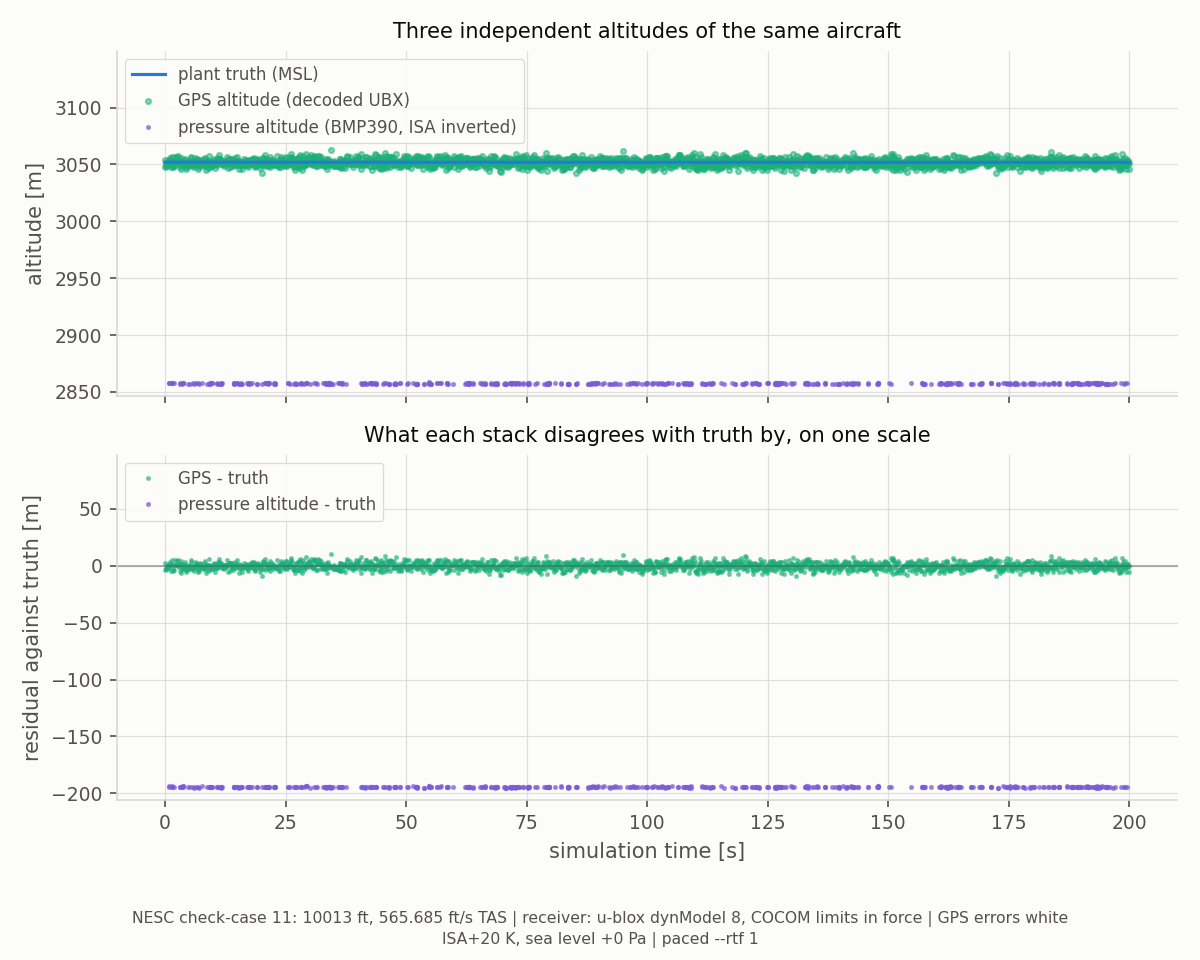
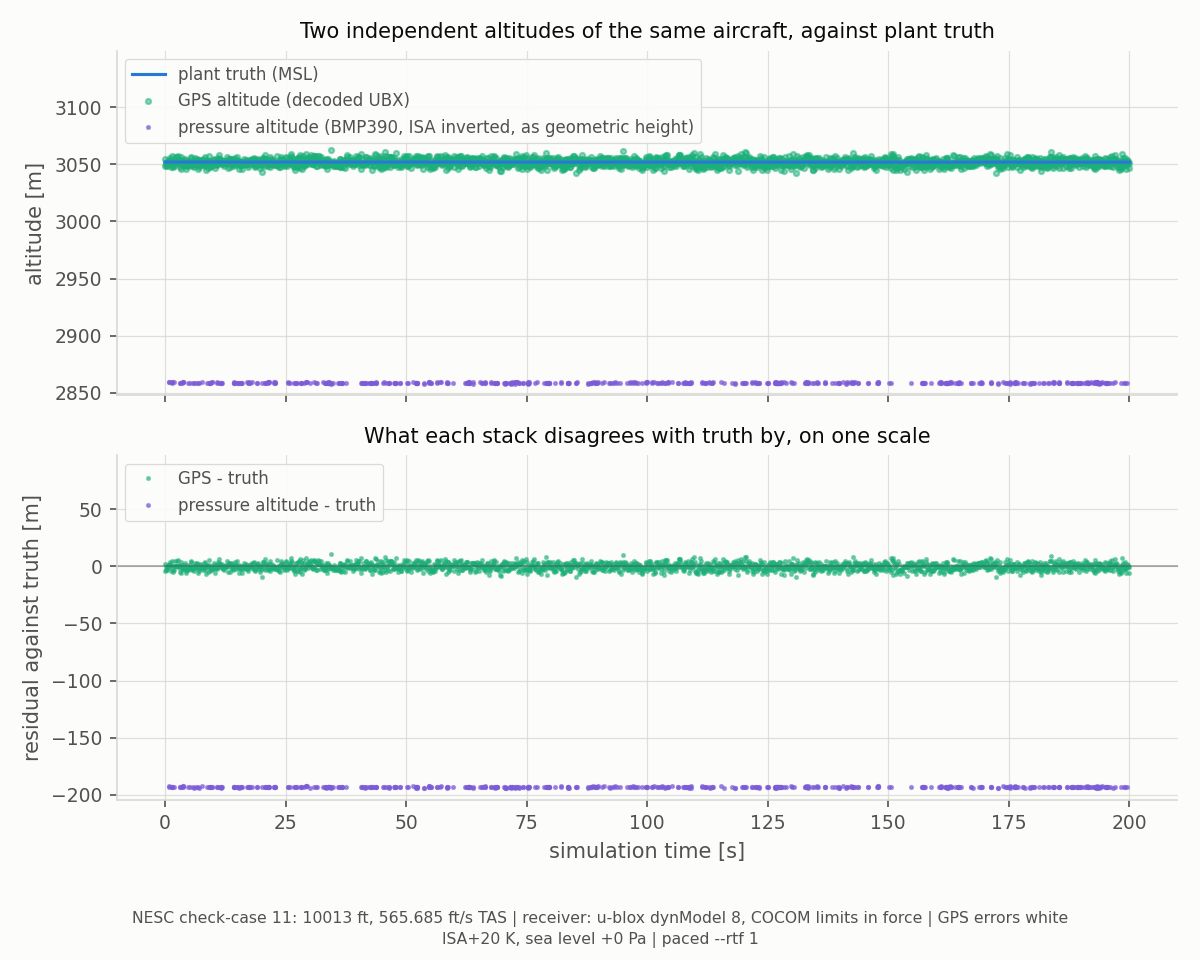
doc(examples): compare barometers with geometric truth on the hot-day and rocket figures
Maintainer decision (2026-11-13, option A): pressure altitude is ISA/US1976
geopotential and is converted with R = 6 356 766 m before geometric plant
truth is subtracted, as Aetherion's barometer measurement model does.
876e4f8 did this for the F-16 script; this applies it to the rest.

- case11_hotday_altitude.png re-plotted from the existing pinned run
  (--seed 11 --atmosphere 20,0, step 0.01, rtf 1, Aetherion 0.18.2 @
  49e75b8, Windows 11 / MSVC), not re-flown. Barometer offset -194.5 m ->
  -193.2 m mean (sd 0.32 m, 538 conversions); GPS -0.04 m over 2001 fixes.
  Caption, alt text and the two other copies (sensor_models.rst, the
  example README) updated; TODO gets a dated note, history untouched.
- rocket_gps_ecos/plot_results.py: the two-layer ISA is replaced by a local
  US1976 standard-day table (the plant's atmosphere, which the rocket climbs
  through every layer of), with local copies of the f16 script's
  geopotential_m / geometric_m. Above the 84 852 m geometric ceiling, and for
  non-positive pressures, both directions return NaN and are left undrawn.
- baro_pressure.png / baro_altitude.png regenerated from --seed 17 --rtf 1
  at the rocket's default 0.1 s step (a 0.01 s attempt stalled on this host
  and was abandoned); captions re-measured: floor 99-118 hPa, ~16 km,
  vehicle climbs another 233 km to 249 km.

Paper 1's figures, text and data/run_statistics.py are not touched.

diff --git a/examples/rocket_gps_ecos/plot_results.py b/examples/rocket_gps_ecos/plot_results.py
@@ -751,31 +751,86 @@ def plot_imu_body_rates(truth, imu, out: Path, caption: str) -> None:
     plt.close(fig)
 
 
-# The ICAO Standard Atmosphere layers of the BMP390 FMU's measurement model
-# (BaroNoiseModel::isa_pressure_pa): 6.5 K/km troposphere to 11 km, then the
-# isothermal stratosphere extended upward. Reimplemented here (rather than
-# imported from anywhere) because a plotting script wants no build products.
-_ISA_P0 = 101325.0
-_ISA_T0 = 288.15
-_ISA_LAPSE = 0.0065
-_ISA_H_TROPO = 11000.0
-_ISA_T_TROPO = 216.65
-_ISA_G = 9.80665
-_ISA_R = 287.05287
-_ISA_P_TROPO = _ISA_P0 * (_ISA_T_TROPO / _ISA_T0) ** (_ISA_G / (_ISA_LAPSE * _ISA_R))
+# The atmosphere the BMP390 sits in is the plant's: rocket_gps_cosim wires
+# rocket::out.P_Pa to baro::p_Pa, and Aetherion computes that pressure from the
+# U.S. Standard Atmosphere 1976 (Environment/Atmosphere.h). This rocket climbs
+# through every one of its layers, so the two-layer ISA the F-16 script uses
+# (troposphere plus an isothermal stratosphere extended upward) would be off by
+# 30 % at 47 km and a factor of two at the ceiling. Reimplemented here (rather
+# than imported from anywhere) because a plotting script wants no build
+# products. Standard day only: this host has no atmosphere-offset flags.
+_US1976_HB_M = (0.0, 11000.0, 20000.0, 32000.0, 47000.0, 51000.0, 71000.0, 84852.0)
+_US1976_TB_K = (288.15, 216.65, 216.65, 228.65, 270.65, 270.65, 214.65, 186.946)
+_US1976_PB_PA = (101325.0, 22632.1, 5474.89, 868.019, 110.906, 66.9389, 3.95642, 0.3734)
+_US1976_LB_K_PER_M = (-0.0065, 0.0, 0.0010, 0.0028, 0.0, -0.0028, -0.0020, 0.0)
+_US1976_G0 = 9.80665
+_US1976_R = 287.05287
+
+# The table is in geopotential altitude, plant truth (out.alt_m) is geometric,
+# and Aetherion converts between them with this radius before it evaluates the
+# table. Comparing a table-inverted pressure altitude with geometric truth
+# directly books H - h = -h^2 / (R + h) as barometer error: -35 m at 15 km.
+# Local copies of examples/f16_trim_ecos/plot_results.py's geopotential_m and
+# geometric_m -- same radius, same convention -- since neither script imports
+# from the other.
+_US1976_GEOPOTENTIAL_RADIUS_M = 6356766.0
+# Aetherion clamps the table at 84 852 m of *geometric* height and continues
+# above it with an isothermal decay of its own, which is not US1976. Neither
+# function below extrapolates past it: they return NaN, which matplotlib leaves
+# undrawn.
+_US1976_CEILING_GEOMETRIC_M = 84852.0
 
 
-def isa_pressure_pa(altitude_m: float) -> float:
-    if altitude_m <= _ISA_H_TROPO:
-        return _ISA_P0 * (1.0 - _ISA_LAPSE * altitude_m / _ISA_T0) ** (_ISA_G / (_ISA_LAPSE * _ISA_R))
-    return _ISA_P_TROPO * math.exp(-_ISA_G * (altitude_m - _ISA_H_TROPO) / (_ISA_R * _ISA_T_TROPO))
+def geopotential_m(height_m: float) -> float:
+    """Geometric height -> geopotential altitude, the table's argument."""
+    return _US1976_GEOPOTENTIAL_RADIUS_M * height_m / (_US1976_GEOPOTENTIAL_RADIUS_M + height_m)
 
 
-def isa_altitude_m(pressure_pa: float) -> float:
-    """Inverse of isa_pressure_pa -- the pressure altimeter a flight computer runs."""
-    if pressure_pa >= _ISA_P_TROPO:
-        return (_ISA_T0 / _ISA_LAPSE) * (1.0 - (pressure_pa / _ISA_P0) ** (_ISA_LAPSE * _ISA_R / _ISA_G))
-    return _ISA_H_TROPO - (_ISA_R * _ISA_T_TROPO / _ISA_G) * math.log(pressure_pa / _ISA_P_TROPO)
+def geometric_m(geopotential_alt_m: float) -> float:
+    """Geopotential altitude -> geometric height, plant truth's convention."""
+    return _US1976_GEOPOTENTIAL_RADIUS_M * geopotential_alt_m / (_US1976_GEOPOTENTIAL_RADIUS_M - geopotential_alt_m)
+
+
+def _us1976_layer_pressure_pa(layer: int, geopotential_alt_m: float) -> float:
+    hb, tb, pb, lb = (_US1976_HB_M[layer], _US1976_TB_K[layer], _US1976_PB_PA[layer], _US1976_LB_K_PER_M[layer])
+    if lb == 0.0:
+        return pb * math.exp(-_US1976_G0 * (geopotential_alt_m - hb) / (_US1976_R * tb))
+    return pb * ((tb + lb * (geopotential_alt_m - hb)) / tb) ** (-_US1976_G0 / (lb * _US1976_R))
+
+
+_US1976_CEILING_PA = _us1976_layer_pressure_pa(6, geopotential_m(_US1976_CEILING_GEOMETRIC_M))
+
+
+def us1976_pressure_pa(height_m: float) -> float:
+    """Standard-day static pressure at a geometric height -- what the plant fed the part.
+
+    Below sea level the plant clamps to sea level; above the ceiling this
+    returns NaN rather than copying the plant's non-standard extension.
+    """
+    if height_m > _US1976_CEILING_GEOMETRIC_M:
+        return math.nan
+    alt = geopotential_m(max(height_m, 0.0))
+    layer = max(i for i, hb in enumerate(_US1976_HB_M[:7]) if alt >= hb)
+    return _us1976_layer_pressure_pa(layer, alt)
+
+
+def pressure_altitude_geometric_m(pressure_pa: float) -> float:
+    """The pressure altimeter a flight computer runs, as a geometric height comparable with truth.
+
+    The table inverted layer by layer, then converted from geopotential.
+    Pressures above sea-level pressure extrapolate the tropospheric layer
+    downwards (a negative altitude); pressures below the ceiling's, and
+    non-positive ones, return NaN.
+    """
+    if not pressure_pa >= _US1976_CEILING_PA:
+        return math.nan
+    layer = max(i for i, pb in enumerate(_US1976_PB_PA[:7]) if pressure_pa <= pb or i == 0)
+    hb, tb, pb, lb = (_US1976_HB_M[layer], _US1976_TB_K[layer], _US1976_PB_PA[layer], _US1976_LB_K_PER_M[layer])
+    if lb == 0.0:
+        alt = hb - _US1976_R * tb / _US1976_G0 * math.log(pressure_pa / pb)
+    else:
+        alt = hb + (tb * (pressure_pa / pb) ** (-lb * _US1976_R / _US1976_G0) - tb) / lb
+    return geometric_m(alt)
 
 
 def plot_baro_pressure(truth, baro, out: Path, caption: str) -> None:
@@ -783,10 +838,11 @@ def plot_baro_pressure(truth, baro, out: Path, caption: str) -> None:
     ax.plot(baro["sim_time_s"], baro["pressure_pa"],
             linestyle="none", marker=".", markersize=3, alpha=0.5, color=GPS,
             label="BMP390 compensated pressure (decoded over I2C)")
-    ax.plot(truth["time"], [isa_pressure_pa(h) for h in truth["alt_m"]],
-            color=TRUTH, linewidth=1.4, label="ISA pressure at true altitude")
+    ax.plot(truth["time"], [us1976_pressure_pa(h) for h in truth["alt_m"]],
+            color=TRUTH, linewidth=1.4,
+            label="US1976 at true altitude (the plant's atmosphere, to 84.9 km)")
     ax.set_yscale("log")
-    ax.annotate("range floor: the reference part's ADC\nbottoms out near 105 hPa (~16 km)",
+    ax.annotate("range floor: the reference part's ADC\nbottoms out near 100-120 hPa (~16 km)",
                 xy=(0.98, 0.10), xycoords="axes fraction", ha="right", fontsize=8, color=INK_2)
     ax.set_xlabel("simulation time [s]")
     ax.set_ylabel("static pressure [Pa]")
@@ -798,14 +854,14 @@ def plot_baro_pressure(truth, baro, out: Path, caption: str) -> None:
 
 
 def plot_baro_altitude(truth, baro, out: Path, caption: str) -> None:
-    # What the flight software would do with these samples: invert the ISA.
-    # Above the part's range floor the derived altitude flatlines while the
-    # vehicle keeps climbing -- the honest failure mode of a pressure
-    # altimeter on a rocket, and the reason GPS exists.
+    # What the flight software would do with these samples: invert the
+    # standard atmosphere. Above the part's range floor the derived altitude
+    # flatlines while the vehicle keeps climbing -- the honest failure mode of
+    # a pressure altimeter on a rocket, and the reason GPS exists.
     fig, ax = new_figure()
-    ax.plot(baro["sim_time_s"], [isa_altitude_m(p) / 1000.0 for p in baro["pressure_pa"]],
+    ax.plot(baro["sim_time_s"], [pressure_altitude_geometric_m(p) / 1000.0 for p in baro["pressure_pa"]],
             linestyle="none", marker=".", markersize=3, alpha=0.5, color=GPS,
-            label="pressure altitude from BMP390 samples")
+            label="pressure altitude from BMP390 samples (as geometric height)")
     ax.plot(truth["time"], [h / 1000.0 for h in truth["alt_m"]],
             color=TRUTH, linewidth=1.4, label="true altitude")
     ax.set_xlabel("simulation time [s]")

diff --git a/doc/rocket_gps_ecos_cosim.rst b/doc/rocket_gps_ecos_cosim.rst
@@ -838,26 +838,35 @@ PNG detached from its caption has no other way to tell you which it is.
 
 .. figure:: _static/rocket_gps_ecos/baro_pressure.png
    :width: 100%
-   :alt: Static pressure vs time, log scale: BMP390 conversions riding the ISA curve down to the part's range floor
+   :alt: Static pressure vs time, log scale: BMP390 conversions riding the US1976 curve down to the part's range floor, the curve ending at the model's 84.9 km ceiling
 
    The BMP390 channel: compensated pressure decoded by the on-target
-   ``Bmp390Driver`` over the simulated I2C bus, against the ISA pressure at
-   the true altitude. The samples are produced by *inverting the real Bosch
-   compensation polynomial* in the FMU and recovered by running it forward in
+   ``Bmp390Driver`` over the simulated I2C bus, against the US1976 pressure
+   at the true altitude — the plant's own atmosphere, which tabulates
+   geopotential altitude, so geometric truth is converted before the table is
+   read; the curve stops at the model's 84.9 km ceiling rather than copying
+   the plant's extension above it. The samples are produced by *inverting the
+   real Bosch compensation polynomial* in the FMU and recovered by running it forward in
    the driver, with the calibration coefficients travelling as the 21 NVM
    bytes a physical part serves — so agreement here is agreement between two
    executions of the same arithmetic across a register interface, not between
    a model and its copy. The flatline is the reference part's ADC bottoming
-   out near 105 hPa.
+   out, between 99 and 118 hPa as the die temperature moves the compensated
+   floor. This figure and the next are drawn from ``--seed 17 --rtf 1`` at
+   the default 0.1 s step (not the 0.01 s baseline) against Aetherion 0.18.2
+   @ 49e75b8, on Windows 11 / MSVC, 2026-11-13; the page's other figures are
+   from the earlier, unseeded run its transcripts come from.
 
 .. figure:: _static/rocket_gps_ecos/baro_altitude.png
    :width: 100%
    :alt: Pressure altitude from BMP390 samples against true altitude, flatlining near 16 km as the rocket continues to climb
 
-   The same samples inverted through the ISA, which is what flight software
-   does with a static-pressure measurement. The altimeter is honest to
-   ~16 km and then stops being an altimeter while the vehicle climbs another
-   220 km — the barometric equivalent of the GPS figure's COCOM cut-off, and
+   The same samples inverted through the standard atmosphere, which is what
+   flight software does with a static-pressure measurement, and converted
+   from geopotential to geometric height so they are comparable with
+   geometric truth. The altimeter is honest to ~16 km and then stops being an
+   altimeter while the vehicle climbs another 233 km (to 249 km on this
+   run) — the barometric equivalent of the GPS figure's COCOM cut-off, and
    the reason a launch vehicle carries all three sensors at once. Each sample
    is timestamped from the part's own ``SENSORTIME`` counter, read in the
    same shadowed burst as the data registers.

diff --git a/doc/f16_trim_ecos_cosim.rst b/doc/f16_trim_ecos_cosim.rst
@@ -619,12 +619,20 @@ for no reason at all.
 
 .. figure:: _static/f16_trim_ecos/case11_hotday_altitude.png
    :width: 100%
-   :alt: Altitude traces where the barometer sits about 195 m below truth while GPS stays on it, and a residual panel showing a flat -195 m offset
+   :alt: Altitude traces where the barometer sits about 193 m below truth while GPS stays on it, and a residual panel showing a flat -193 m offset
 
-   A hot day: ISA + 20 K, nothing else changed. The barometer reads **195 m
-   low** for the whole flight (−194.5 m mean over 538 conversions) while GNSS
-   sits on truth. Drawn from ``--seed 11 --atmosphere 20,0 --step 0.01
-   --rtf 1`` against Aetherion 0.18.2.
+   A hot day: ISA + 20 K, nothing else changed. The barometer reads **193 m
+   low** for the whole flight (−193.2 m mean, 0.3 m standard deviation, over
+   538 conversions) while GNSS sits on truth (−0.04 m mean over 2001 fixes).
+   Pressure altitude is converted from the standard atmosphere's geopotential
+   altitude to geometric height before it is compared with geometric truth,
+   as Aetherion's barometer measurement model does; without that conversion
+   1.3 m of altitude convention reads as barometer error (−194.5 m). Drawn
+   from ``--seed 11 --atmosphere 20,0 --gps-period 0.1 --step 0.01 --rtf 1``
+   against Aetherion 0.18.2 @ 49e75b8, on Windows 11 / MSVC, 2026-11-13. The
+   gaps in the barometer trace are that host's paced loop starving the
+   polled part (538 decoded of 9998 latched conversions); they thin the trace
+   and do not move the offset.
 
    Nothing is broken. Pressure altitude is not geometric altitude, and on a
    warm day the two differ by hundreds of feet — which is precisely why a

diff --git a/TODO.md b/TODO.md
@@ -335,6 +335,10 @@ turbulence, a non-standard atmosphere — is Aetherion's and is written up as
   barometer **195 m** below truth while GNSS and radar hold it; a 10 m/s crosswind opens **2.28°**
   between GNSS course and yaw. All three were invisible in calm, standard-day air.
   *2026-11-13: the radar altimeter was removed from Hemerion by maintainer decision; the radar references above are history.*
+  *2026-11-13: with pressure altitude converted from geopotential to geometric height before it is
+  compared with geometric truth (maintainer decision, option A; R = 6 356 766 m, as Aetherion's
+  barometer measurement model does), the ISA + 20 K offset is **−193.2 m** mean over 538 conversions
+  (−194.5 m without the conversion), seed 11, step 0.01, Aetherion 0.18.2 @ 49e75b8.*
 
 * **Still open in 3b:** the field model is still a centred dipole, whose declination at Kitty Hawk
   is +0.69° against the real field's ≈ −11°. WMM/IGRF needs an authoritative coefficient set — it

diff --git a/examples/f16_trim_ecos/README.md b/examples/f16_trim_ecos/README.md
@@ -93,7 +93,7 @@ Two terminals, both in `build/examples-native/examples/f16_trim_ecos/`:
 ./f16_trim_cosim --seed 11 --turbulence 8 --turbulence-seed 1   # light-to-moderate turbulence:
                               # peak roll rate goes from 0.7 gyro counts to 47
 ./f16_trim_cosim --seed 11 --atmosphere 20,0 --wind 0,10,0     # ISA+20 K and a 10 m/s crosswind:
-                              # the barometer reads 195 m low, GPS course crabs 2.3 deg off yaw
+                              # the barometer reads 193 m low, GPS course crabs 2.3 deg off yaw
 ./f16_trim_cosim --imu-range 250   # an aircraft-appropriate gyro range; pass the same to
                               # f16_flight_computer -- sensitivity is not on the wire
                               # over a window long enough to show its 100 s correlation time

diff --git a/doc/sensor_models.rst b/doc/sensor_models.rst
@@ -219,7 +219,7 @@ On a standard day this is a small correction — the plants integrate US1976
 while the part inverted ICAO ISA, and the two differ by 13 Pa at 3 km, a
 systematic 1.46 m of indicated altitude. On a non-standard day it is the whole
 difference between a barometer that reads the book and one that reads the air:
-:ref:`f16_trim_ecos_cosim` shows a 195 m offset on ISA + 20 K.
+:ref:`f16_trim_ecos_cosim` shows a 193 m offset on ISA + 20 K.
 
 ``GpsNoiseModel`` perturbs the truth trajectory at the *fix* level — a
 receiver outputs a navigation solution, not register counts — producing a
